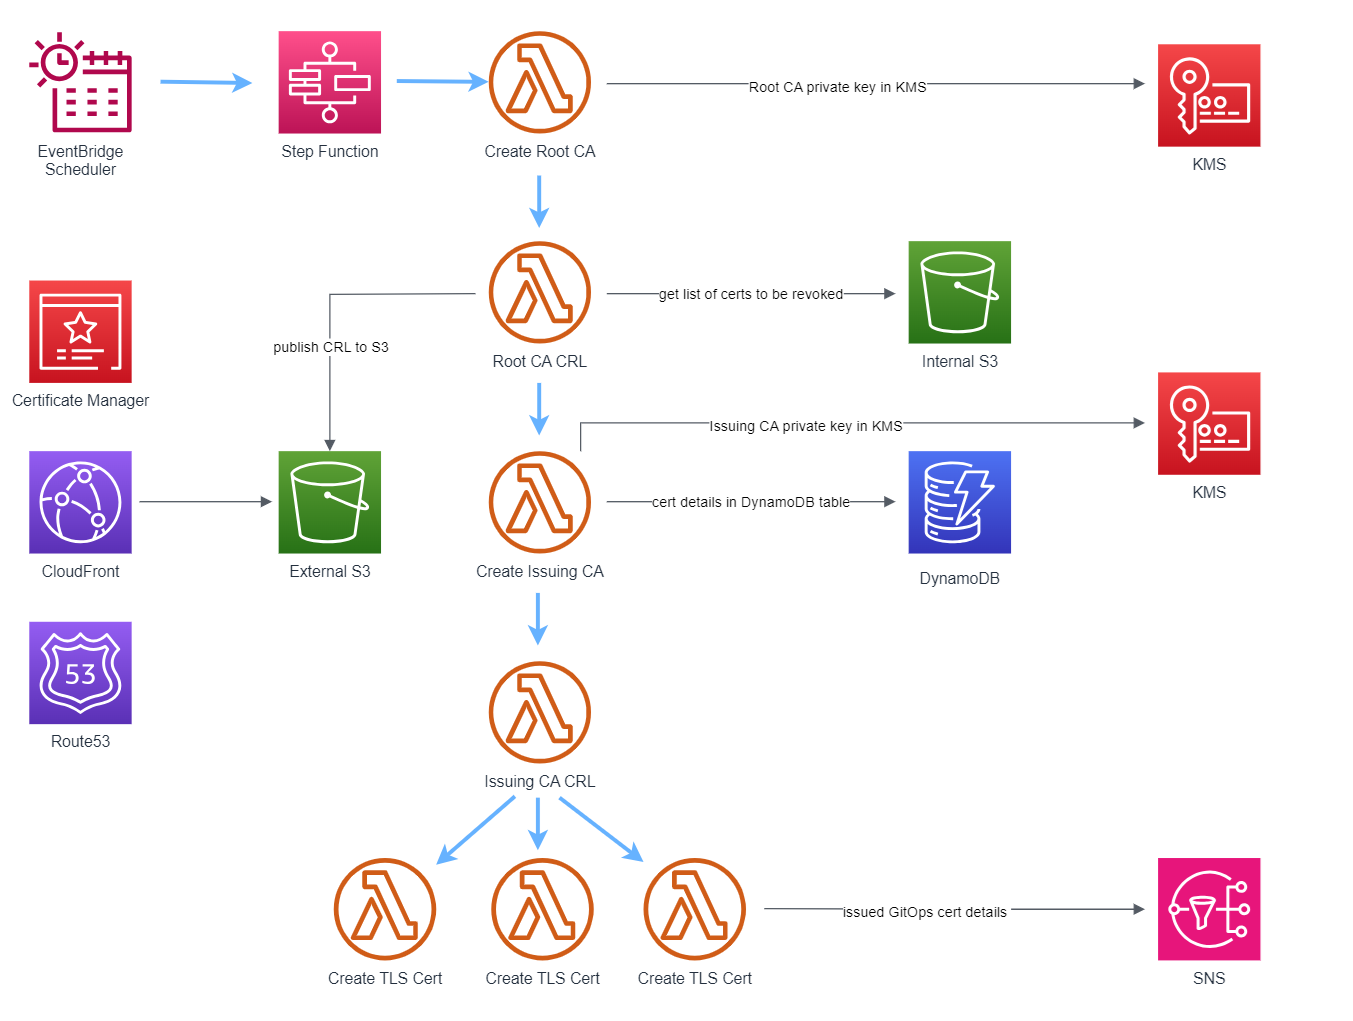
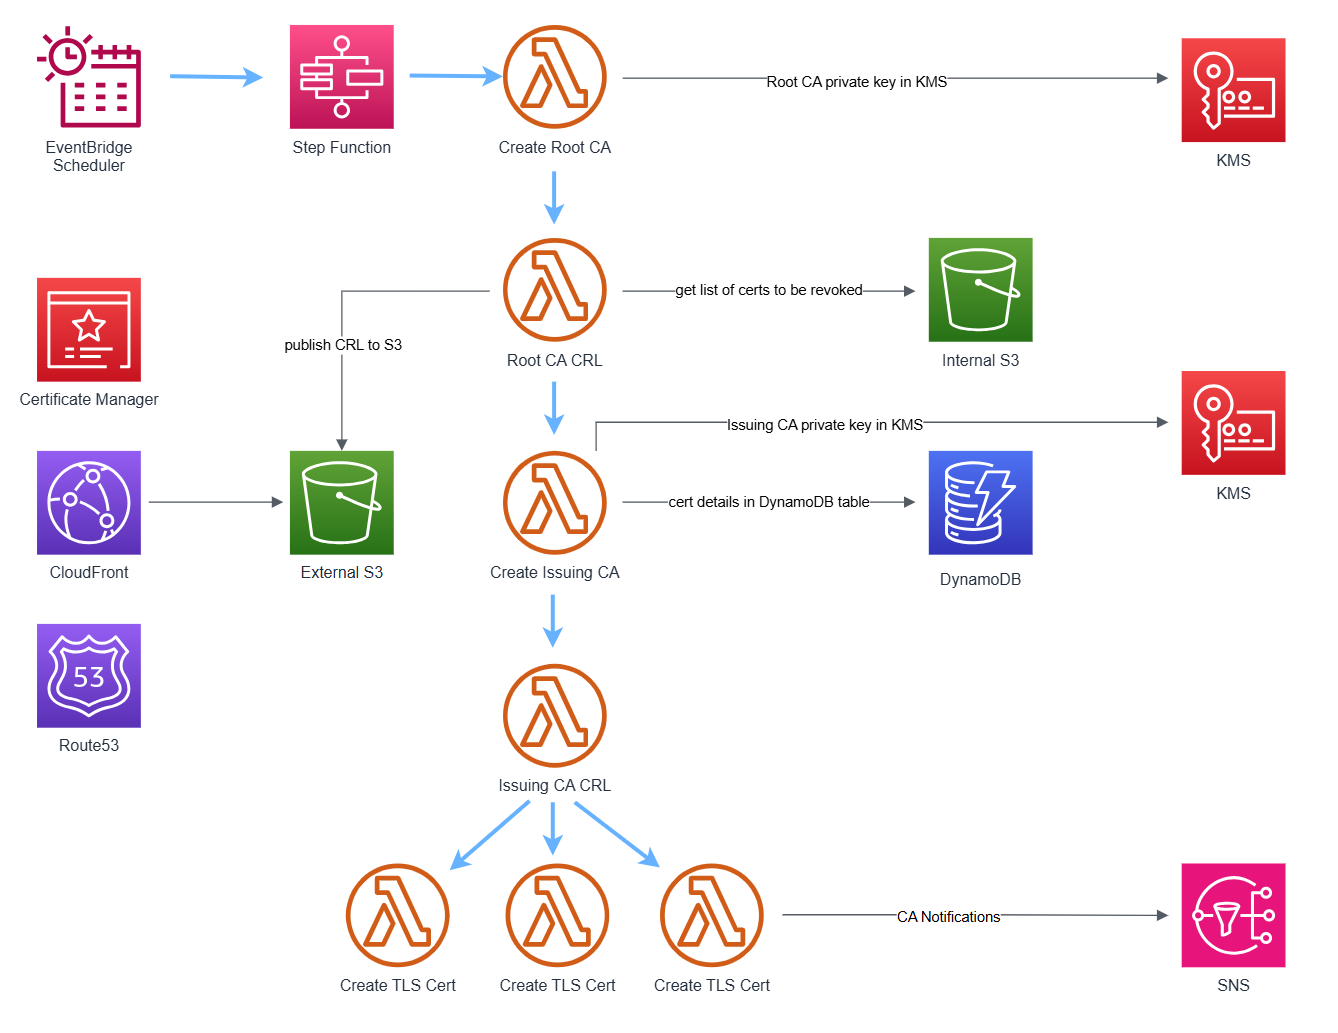
New SNS notification - Certificate Request Rejected (#506)

diff --git a/modules/terraform-aws-ca-lambda/lambda_code/tls_cert/tls_cert.py b/modules/terraform-aws-ca-lambda/lambda_code/tls_cert/tls_cert.py
@@ -222,6 +222,27 @@ def sns_notify_cert_issued(cert_json, sns_topic_arn):
     print(f"Certificate details for {common_name} published to SNS")
 
 
+def sns_notify_csr_rejected(csr_info, csr, reason, sns_topic_arn):
+    """Publishes rejection details to SNS when a certificate request is rejected"""
+    csr_pem = csr.public_bytes(serialization.Encoding.PEM).decode("utf-8")
+    rejection_data = {
+        "CSRInfo": {
+            "CommonName": csr_info.subject.common_name,
+            "Lifetime": csr_info.lifetime,
+            "Purposes": csr_info.purposes,
+            "SANs": csr_info.sans,
+        },
+        "CSRPem": csr_pem,
+        "Subject": csr.subject.rfc4514_string(),
+        "Reason": reason,
+    }
+    keys_to_publish = ["CSRInfo", "CSRPem", "Subject", "Reason"]
+    response = publish_to_sns(rejection_data, "Certificate Request Rejected", sns_topic_arn, keys_to_publish)
+
+    assert response["ResponseMetadata"]["HTTPStatusCode"] == 200
+    print(f"Certificate request rejection for {csr_info.subject.common_name} published to SNS")
+
+
 def lambda_handler(event, context):  # pylint:disable=unused-argument,too-many-locals
     project = os.environ["PROJECT"]
     env_name = os.environ["ENVIRONMENT_NAME"]
@@ -270,6 +291,7 @@ def lambda_handler(event, context):  # pylint:disable=unused-argument,too-many-l
         request.force_issue,
     )
     if validation_error:
+        sns_notify_csr_rejected(csr_info, csr, validation_error["error"], sns_topic_arn)
         return validation_error
 
     base64_certificate, cert_info = sign_csr(

diff --git a/modules/terraform-aws-ca-lambda/lambda_code/issuing_ca_crl/issuing_ca_crl.py b/modules/terraform-aws-ca-lambda/lambda_code/issuing_ca_crl/issuing_ca_crl.py
@@ -79,7 +79,7 @@ def list_revoked_certs_from_s3(project, env_name, external_s3_bucket_name, inter
                     "CommonName": common_name,
                     "SerialNumber": serial_number,
                     "Revoked": str(revocation_date),
-                    "DistinguishedName": dn,
+                    "Subject": dn,
                 }
             )
 
@@ -101,7 +101,7 @@ def build_list_of_revoked_certs(project, env_name, external_s3_bucket_name, inte
 
 
 def sns_notify_cert_revoked(cert_details, sns_topic_arn):
-    keys_to_publish = ["CommonName", "SerialNumber", "Revoked", "DistinguishedName"]
+    keys_to_publish = ["CommonName", "SerialNumber", "Revoked", "Subject"]
     response = publish_to_sns(cert_details, "Certificate Revoked", sns_topic_arn, keys_to_publish)
 
     assert response["ResponseMetadata"]["HTTPStatusCode"] == 200

diff --git a/docs/notifications.md b/docs/notifications.md
@@ -1,0 +1,77 @@
+# Notifications
+
+The module provides SNS notifications for different events. You can directly subscribe to the CA Notifications SNS Topic to receive email notifications.
+
+You can also add your own infrastructure to that provided by the module, and deliver customised messaging to your CA administrators and users, for example:
+
+![Notifications](assets/images/notifications.png)
+
+##  Notification types
+
+| Event                        | GitOps | Lambda Invocation  |
+|------------------------------|:------:|:------------------:|
+| Certificate Issued           |   ✅    |         -          |
+| Certificate Request Rejected |   ✅    |         ✅          |
+| Certificate Revoked          |   ✅    |         ✅          |
+
+##  Certificate Issued notification
+
+When a certificate is issued via the GitOps process, a notification is published to the CA Notifications SNS Topic:
+
+![Certificate Issued](assets/images/sns-cert-issued.png)
+
+Certificate Issued notification - example JSON:
+```json
+{
+  "CertificateInfo": {
+    "CommonName": "pipeline-test-csr-s3-upload",
+    "SerialNumber": "725732270238932467356021650679497159468001185756",
+    "Issued": "2026-02-08 08:11:41",
+    "Expires": "2026-02-09 08:16:41"
+  },
[1 lines of base64/hex data omitted]
+  "Subject": "ST=New York,OU=DevOps,O=Override CSR Org,L=Override CSR Location,C=US,CN=pipeline-test-csr-s3-upload"
+}
+```
+
+##  Certificate Request Rejected notification
+
+Certificate request rejections result in a SNS Notification. Possible reasons for rejection include:
+* CSR must include a Common Name
+* Lifetime must be at least 1 day
+* Private key has already been used for a certificate
+
+![Certificate Request Rejected](assets/images/sns-csr-rejected.png)
+
+Certificate Request Rejected notification - example JSON:
+```json
+{
+  "CSRInfo": {
+    "CommonName": "test-client-cert",
+    "Lifetime": 1,
+    "Purposes": [
+      "client_auth"
+    ],
+    "SANs": []
+  },
+  "CSRPem": "-----BEGIN CERTIFICATE REQUEST-----\nMIIBPjCB5AIBADCBgTEYMBYGA1UEAwwPQ2xvdWQgQXJjaGl0ZWN0MQswCQYDVQQG\nEwJHQjEPMA0GA1UEBwwGTG9uZG9uMRcwFQYDVQQKDA5TZXJ2ZXJsZXNzIEluYzEc\nMBoGA1UECwwTU2VjdXJpdHkgT3BlcmF0aW9uczEQMA4GA1UECAwHRW5nbGFuZDBZ\nMBMGByqGSM49AgEGCCqGSM49AwEHA0IABP3aiMBW5ygHZbfslboaM3017oYJvb9P\nSc5KUiYIS0TRAraMXFN85A1TQD+02frNtubuD52/68p20BNwuF+9U+CgADAKBggq\nhkjOPQQDAgNJADBGAiEA9T7HediIidYY/fgiSodu5l3P5/X4g70tavT4IbOZ0kwC\nIQD3NlQ16JSyXKKVjbJQKDHFAxrHA4wpJAacnewOGdWQjA==\n-----END CERTIFICATE REQUEST-----\n",
+  "Subject": "ST=England,OU=Security Operations,O=Serverless Inc,L=London,C=GB,CN=Cloud Architect",
+  "Reason": "Private key has already been used for a certificate"
+}
+```
+
+##  Certificate Revoked notification
+
+A SNS notification is published when a certificate is revoked:
+
+![Certificate Revoked](assets/images/sns-cert-revoked.png)
+
+Certificate Revoked notification - example JSON:
+```json
+{
+  "CommonName": "pipeline-test-csr-s3-upload",
+  "SerialNumber": "253508645453578743400361452260705386159413554723",
+  "Revoked": "2026-02-03 21:34:04.753865",
+  "Subject": "ST=New York,OU=DevOps,O=Override CSR Org,L=Override CSR Location,C=US,CN=pipeline-test-csr-s3-upload"
+}
+```

diff --git a/modules/terraform-aws-ca-lambda/README.MD b/modules/terraform-aws-ca-lambda/README.MD
@@ -72,6 +72,8 @@ pip install -r requirements-dev.txt
 ```
 * set environment variables for dev environment
 ```bash
+export AWS_DEFAULT_REGION="eu-west-2"
+export AWS_REGION="eu-west-2"
 export DOMAIN="ca.example.com"
 export ENVIRONMENT_NAME="dev"
 export EXTERNAL_S3_BUCKET="my-company-serverless-ca-external-dev"
@@ -88,7 +90,7 @@ export PUBLIC_CRL="disabled"
 export ROOT_CRL_DAYS="1"
 export ROOT_CRL_SECONDS="600"
 ```
-* copy and paste AWS macOS / Linux CLI variables to terminal
+* use `aws sso login`, or copy and paste AWS macOS / Linux CLI variables to terminal
 
 * test Lambda function locally
 * enter `python`
@@ -100,6 +102,8 @@ lambda_handler({},{})
 * Create Certificate Signing Request (CSR) file `client-cert-request.csr` following instructions in [Client Certificates](../../docs/client-certificates.md)
 * Upload CSR file to `csrs` folder in Internal S3 bucket
 ```bash
+export AWS_DEFAULT_REGION="eu-west-2"
+export AWS_REGION="eu-west-2"
 export DOMAIN="ca.example.com"
 export ENVIRONMENT_NAME="dev"
 export EXTERNAL_S3_BUCKET="my-company-serverless-ca-external-dev"
@@ -117,7 +121,7 @@ export ROOT_CRL_DAYS="1"
 export ROOT_CRL_SECONDS="600"
 export SNS_TOPIC_ARN="arn:aws:sns:<REGION>:<ACCOUNT-ID>:serverless-ca-notifications-dev"
 ```
-* copy and paste AWS Powershell CLI variables to terminal
+* use `aws sso login`, or copy and paste AWS MacOS / Linux CLI variables to terminal
 * enter `python`
 ```python
 from lambda_code.tls_cert.tls_cert import lambda_handler
@@ -138,6 +142,7 @@ bandit -r lambda_code utils
 * Test Issuing CRL lambda
 ```bash
 export AWS_DEFAULT_REGION="eu-west-2"
+export AWS_REGION="eu-west-2"
 export ENVIRONMENT_NAME="prod"
 export EXTERNAL_S3_BUCKET="my-company-serverless-ca-external-prod"
 export INTERNAL_S3_BUCKET="my-company-serverless-ca-internal-prod"
@@ -180,6 +185,8 @@ pip install -r requirements-dev.txt
 ```
 * set environment variables for dev environment
 ```powershell
+$Env:AWS_DEFAULT_REGION="eu-west-2"
+$Env:AWS_REGION="eu-west-2"
 $Env:DOMAIN="ca.example.com"
 $Env:ENVIRONMENT_NAME="dev"
 $Env:EXTERNAL_S3_BUCKET="my-company-serverless-ca-external-dev"
@@ -206,6 +213,8 @@ lambda_handler({},{})
 * Create Certificate Signing Request (CSR) file `client-cert-request.csr` following instructions in [Client Certificates](../../docs/client-certificates.md)
 * Upload CSR file to `csrs` folder in Internal S3 bucket
 ```powershell
+$Env:AWS_DEFAULT_REGION="eu-west-2"
+$Env:AWS_REGION="eu-west-2"
 $Env:DOMAIN="ca.example.com"
 $Env:ENVIRONMENT_NAME="dev"
 $Env:EXTERNAL_S3_BUCKET="my-company-serverless-ca-external-dev"
@@ -241,6 +250,7 @@ bandit -r lambda_code utils
 * Test Issuing CRL lambda
 ```powershell
 $Env:AWS_DEFAULT_REGION="eu-west-2"
+$Env:AWS_REGION="eu-west-2"
 $Env:ENVIRONMENT_NAME="prod"
 $Env:EXTERNAL_S3_BUCKET="my-company-serverless-ca-external-prod"
 $Env:INTERNAL_S3_BUCKET="my-company-serverless-ca-internal-prod"

diff --git a/docs/client-certificates.md b/docs/client-certificates.md
@@ -124,9 +124,9 @@ csr_files = tolist(fileset("${path.module}/certs/dev/csrs", "*.csr"))
 
 **Get certificate from SNS notification**
 
-Details of GitOps issued certificate are published to SNS
+Details of GitOps issued certificate are published to SNS, see [Notifications](notifications.md) for further details.
 
-![Alt text](assets/images/sns-cert-issued.png?raw=true "SNS Notification")
+![SNS Notification](assets/images/sns-cert-issued.png)
 
 * From your SNS email, copy the value of the JSON key `Base64Certificate`
 
@@ -160,11 +160,11 @@ If you haven't subscribed to SNS, or you want to retrieve a non-GitOps issued ce
 * using the console, navigate to the CA DynamoDB table
 * select Explore table items
 * run a query, searching for the Common Name
-![Alt text](assets/images/dynamodb-test-server-cert.png?raw=true "DynamoDB query")
+![DynamoDB query](assets/images/dynamodb-test-server-cert.png)
 
 * select the issued certificate by clicking on the link
 
-![Alt text](assets/images/dynamodb-test-server-cert-details.png?raw=true "DynamoDB item details")
+![DynamoDB item details](assets/images/dynamodb-test-server-cert-details.png)
 
 * copy the certificate value, this is double Base64 encoded when viewed in the console
 

diff --git a/docs/revocation.md b/docs/revocation.md
@@ -57,7 +57,9 @@ add files and subdirectory following the [rsa-public-crl example](https://github
 
 When a certificate is revoked, a notification is published to the CA Notifications SNS Topic:
 
-![Revocation notification](assets/images/revocation-sns.png)
+![Revocation notification](assets/images/sns-cert-revoked.png)
+
+See [Notifications](notifications.md) for further information.
 
 ## CRL publication frequency
 If required, the default CRL publication frequency of once per day can be changed, as described in [Configuration Options](./options.md#crl-publication-frequency)
